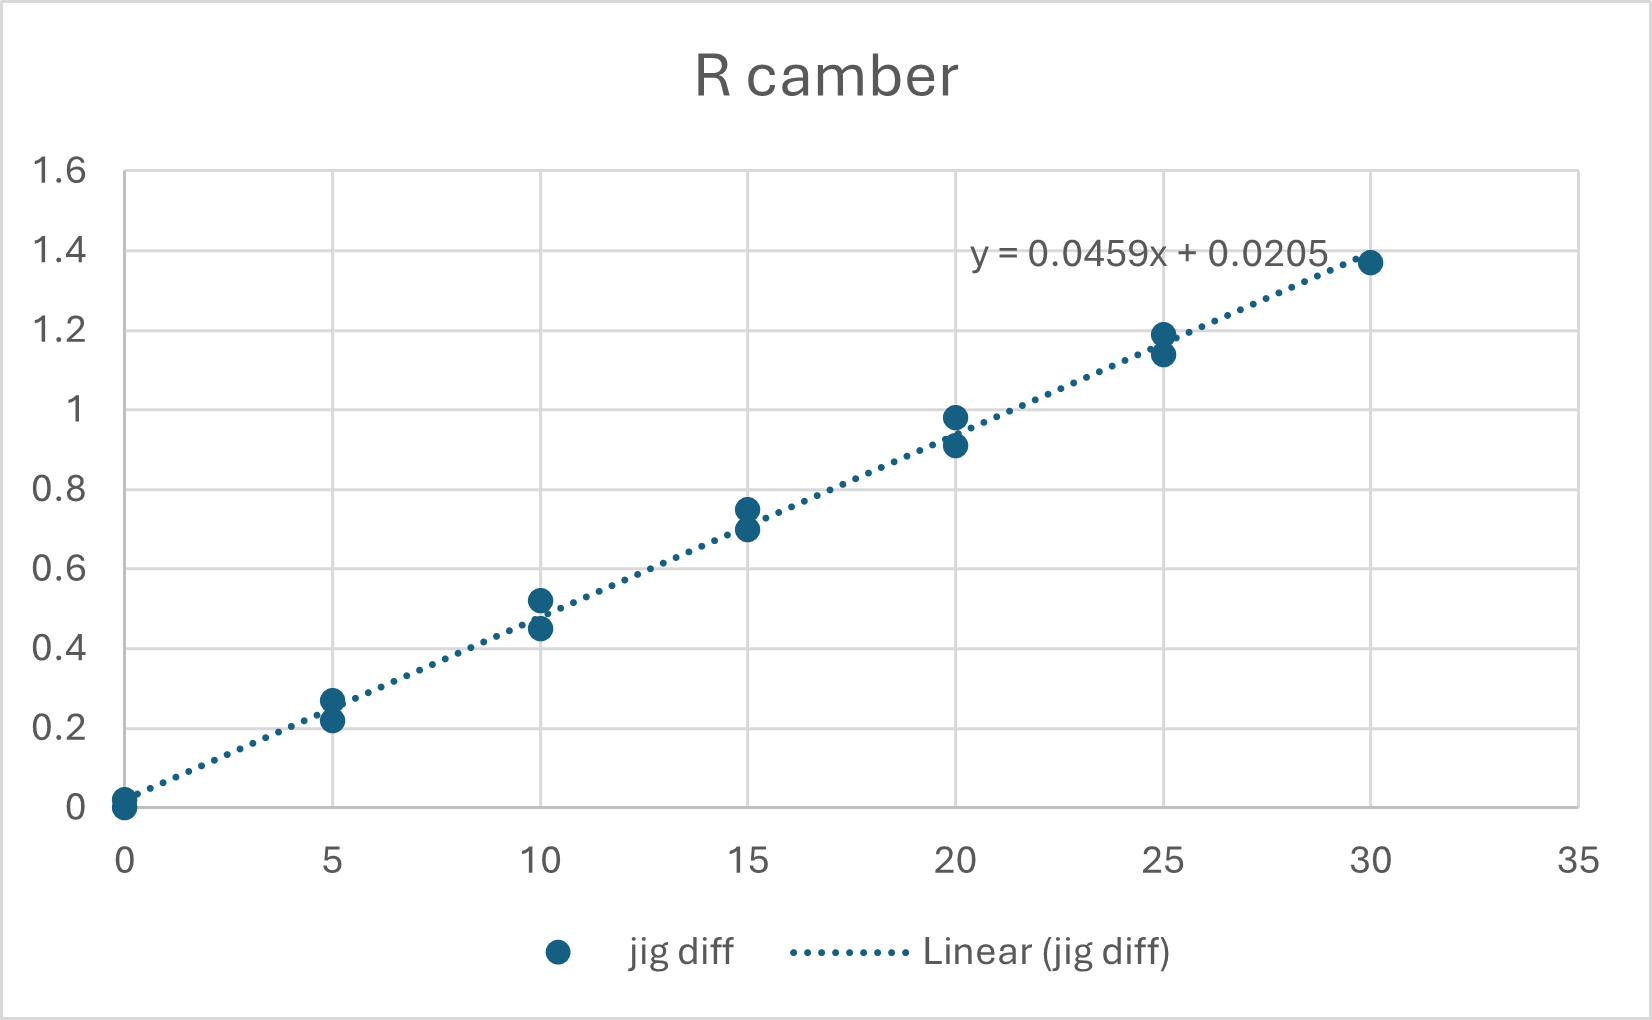
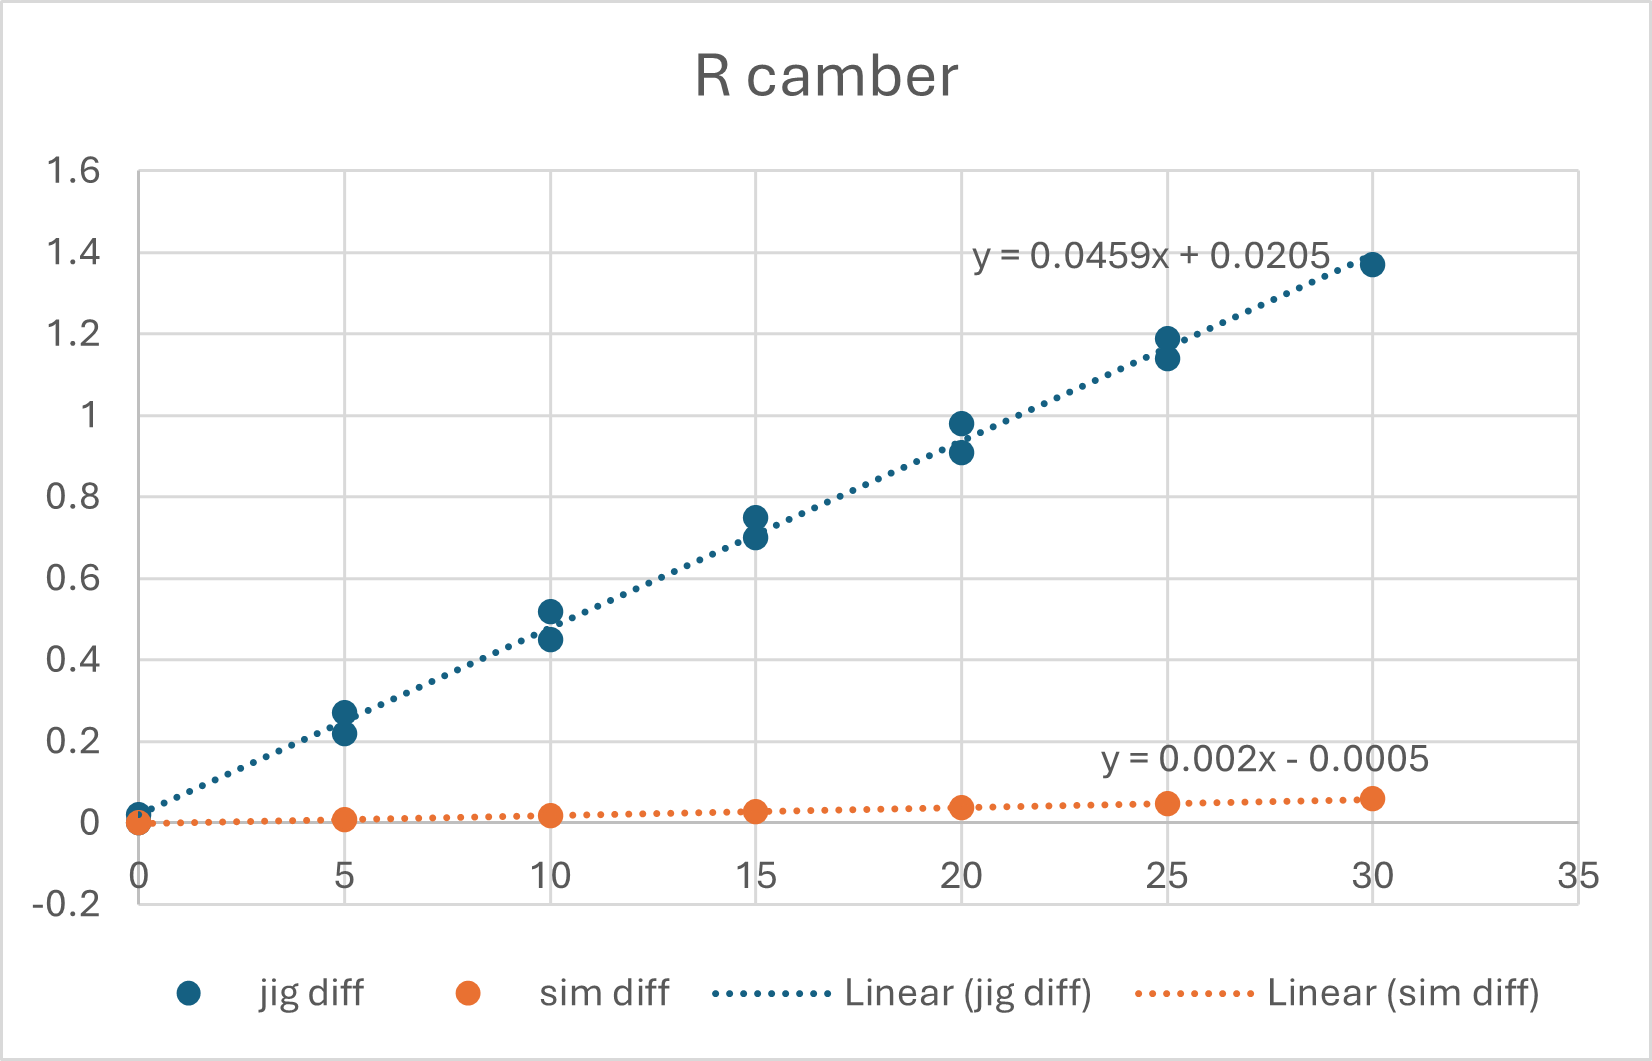
content update

diff --git a/index.html b/index.html
@@ -772,6 +772,37 @@
         large displacements of the bodies and varying load conditions. The only drawback is the long runtime of the simulation, as 
         smaller substeps are used to ensure convergence. The final simulation took just over 3 days to complete.
       </p>
+      <p>
+        Step 1: Create the geometry in Solidworks. A M36 thread was first created on the hub. Using the cavity funcrion, a corresponding 
+        internal thread was the created on the nut, with a small offset to ensure that the 2 parts can slide. Small sharp edges 
+        were trimmed away to prevent meshing issues.
+      </p>
+      <image-component style="margin-left: 100px; margin-right: 100px" tag="image" source="assets/thread1.png"
+          subtitle="Image 17: Creation of geometry in CAD.">
+      </image-component>
+      <p>
+        Step 2: The geometry was loaded into Ansys static structural, and the simulation was split into 14 steps with each step 
+        applying 10Nm of additional torque. Ensure that mesh defeaturing is off as we do not want to cause the thread surfaces 
+        to become distorted. This is also the reason for trimming away small and sharp edges in CAD. Additionally, ensure that 
+        large deflection is on.
+      </p>
+      <image-component style="margin-left: 100px; margin-right: 100px" tag="image" source="assets/thread2.png"
+          subtitle="Image 17: Time step setting in Ansys.">
+      </image-component>
+      <br />
+      <image-component style="margin-left: 100px; margin-right: 100px" tag="image" source="assets/thread3.png"
+          subtitle="Image 17: Load setting in Ansys.">
+      </image-component>
+      <p>
+        Once the model converges, it can be seen that at 130Nm, the clamping force is 14489N, and that the compression of the 
+        spacer stack is 12.008 microns.
+      </p>
+      <image-component style="margin-left: 100px; margin-right: 100px" tag="image" source="assets/thread4.png"
+          subtitle="Image 17: Clamping force results.">
+      </image-component>
+      <image-component style="margin-left: 100px; margin-right: 100px" tag="image" source="assets/thread5.png"
+          subtitle="Image 17: Deformation results.">
+      </image-component>
 
     <div>
       <div id="section-header-8" class="references">
